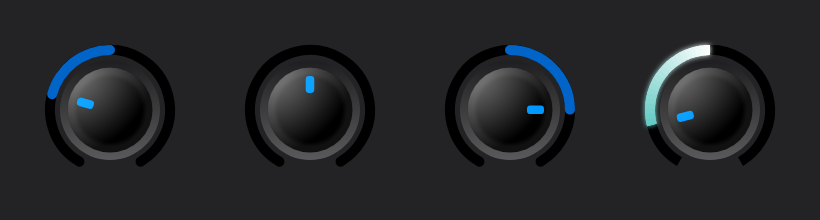
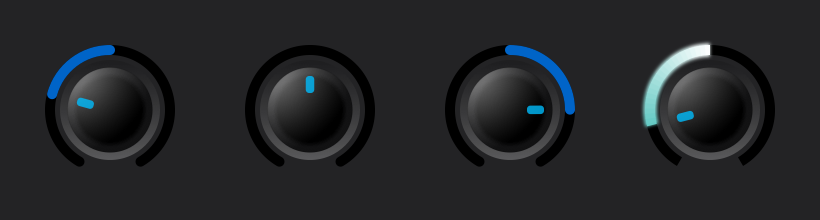
Draw track glows with Artist's blur_style, brighter and in one pass

diff --git a/lib/include/elements/element/style/track.hpp b/lib/include/elements/element/style/track.hpp
@@ -369,17 +369,13 @@ namespace cycfi::elements
       auto const& fill_colors = static_cast<fill_part<fill_type> const&>(*this);
 
       // Call f(rect, color) for each part of the fill in one color: the
-      // bands, or slices of a gradient, `size` long, or a sixteenth of the
-      // fill when `coarse` (a glow is blurred, so its colors need not step
-      // as finely, and each part is a blur of its own)
-      auto for_each_part = [&](auto f, bool coarse = false)
+      // bands, or slices of a gradient, `size` long
+      auto for_each_part = [&](auto f)
       {
-         (void) coarse;   // gradients only
          if constexpr (detail::is_gradient_fill<fill_type>::value)
          {
             auto const len = vertical? shape.height() : shape.width();
-            auto const step = coarse?
-               std::max(float(size), len / 16) : float(size);
+            auto const step = float(size);
             for (float p = 0; p < len; p += step)
             {
                auto part = shape;
@@ -429,10 +425,21 @@ namespace cycfi::elements
          }
       };
 
+      // A gradient along the whole bar of a status bar, or this track
+      auto along = [&]
+      {
+         return vertical?
+            canvas::linear_gradient{point{0, ref.bottom}, point{0, ref.top}} :
+            canvas::linear_gradient{point{ref.left, 0}, point{ref.right, 0}};
+      };
+
       if constexpr (_glow)
       {
-         // The glow: each part's shadow, in its color, kept within the
-         // bounds of a status bar, or this track
+         // The glow: the fill, a quarter of the glow's room wider at each
+         // side and blurred by a third of it, so it has all but faded where
+         // the room ends. It is kept within the bounds of a status bar, or
+         // this track. Bands are a gradient with hard stops, so the glow is
+         // one shape.
          auto clip = ctx.bounds;
          if (auto pctx = find_parent_context<status_bar_base*>(ctx))
             clip = pctx->bounds;
@@ -440,20 +447,41 @@ namespace cycfi::elements
          cnv.begin_path();
          cnv.add_rect(clip);
          cnv.clip();
-         for_each_part(
-            [&](rect part, color c)
+         cnv.blur_style(g / 3);
+
+         if constexpr (detail::is_gradient_fill<fill_type>::value)
+         {
+            auto gr = along();
+            for (auto const& cs : fill_colors.stops)
+               gr.add_color_stop(cs);
+            cnv.fill_style(gr);
+         }
+         else if constexpr (detail::is_band_fill<fill_type>::value)
+         {
+            auto gr = along();
+            float prev = 0;
+            for (std::size_t i = 0; i != fill_colors.bands.size(); ++i)
             {
-               cnv.shadow_style(g, c);
-               cnv.fill_style(c);
-               cnv.begin_path();
-               if (_shape == track_shape::square)
-                  cnv.add_rect(part);
-               else
-                  cnv.add_round_rect(part, r);
-               cnv.fill();
+               auto const& band = fill_colors.bands[i];
+               auto to = (i == fill_colors.bands.size()-1)? 1.0f : band.to;
+               gr.add_color_stop(prev, band.c);
+               gr.add_color_stop(to, band.c);
+               prev = to;
             }
-          , true
-         );
+            cnv.fill_style(gr);
+         }
+         else
+         {
+            cnv.fill_style(this->fill());
+         }
+
+         auto const grow = g / 4;
+         cnv.begin_path();
+         if (_shape == track_shape::square)
+            cnv.add_rect(shape.inset(-grow));
+         else
+            cnv.add_round_rect(shape.inset(-grow), r + grow);
+         cnv.fill();
       }
 
       if constexpr (
@@ -475,9 +503,7 @@ namespace cycfi::elements
 
          if constexpr (detail::is_gradient_fill<fill_type>::value)
          {
-            auto gr = vertical?
-               canvas::linear_gradient{point{0, ref.bottom}, point{0, ref.top}} :
-               canvas::linear_gradient{point{ref.left, 0}, point{ref.right, 0}};
+            auto gr = along();
             for (auto const& cs : fill_colors.stops)
                gr.add_color_stop(cs);
             cnv.fill_style(gr);
@@ -621,10 +647,12 @@ namespace cycfi::elements
       };
 
       // A part of the track as one shape, with round ends where asked, so
-      // nothing is drawn twice: a translucent color stays even.
-      auto segment = [&](double from, double to, color c, bool round_from, bool round_to)
+      // nothing is drawn twice: a translucent color stays even. h is half
+      // its thickness.
+      auto segment = [&](
+         double from, double to, color c, bool round_from, bool round_to
+       , float h)
       {
-         auto const h = thick / 2;
          auto const a0 = angle(from);
          auto const a1 = angle(to);
          cnv.begin_path();
@@ -699,22 +727,29 @@ namespace cycfi::elements
             bool const last = end == to;
             if (!last && c.alpha >= 1)
                end = std::min(to, end + 0.002);
-            segment(from, end, c, round && from == lo, round && last);
+            segment(from, end, c, round && from == lo, round && last, thick / 2);
          };
 
          if constexpr (_glow)
          {
-            // The glow: each part's shadow, in its color, kept within
-            // bounds
+            // The glow: the fill, a sixth of its thickness wider at each
+            // side and blurred by as much, so it has all but faded where
+            // the room outside the track, half its thickness, ends. It is
+            // kept within bounds. The parts are blurred one by one and
+            // added up in a group, which comes to the blur of the whole.
             auto glow_state = cnv.new_state();
             cnv.begin_path();
             cnv.add_rect(ctx.bounds);
             cnv.clip();
+            auto glow_group = cnv.new_group(1);
+            cnv.composite_op(canvas::lighter);
+            cnv.blur_style(thick / 6);
             for_each_part(
                [&](double from, double end, color c)
                {
-                  cnv.shadow_style(thick / 2, c);
-                  part(from, end, c);
+                  segment(
+                     from, end, c, round && from == lo, round && end == to
+                   , thick * 2 / 3);
                }
              , 16
             );
